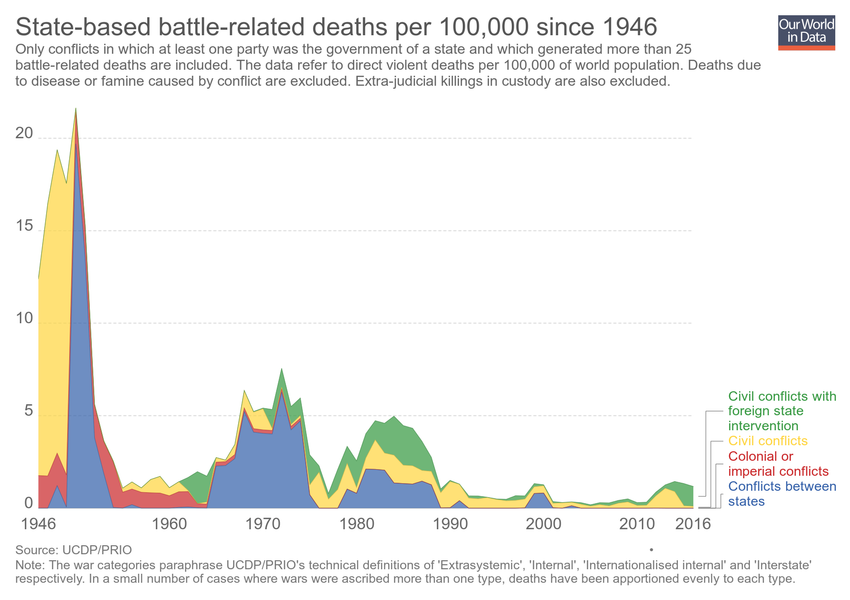
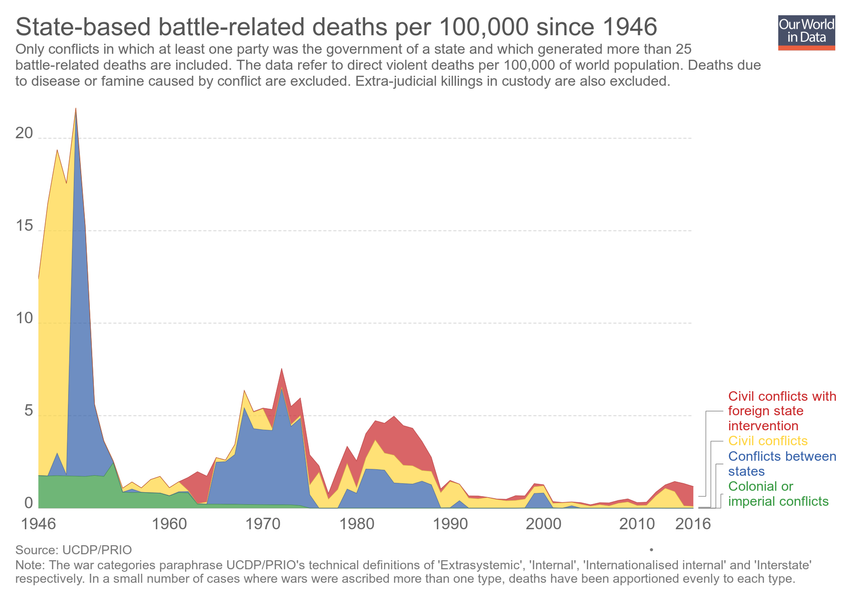
Updating chart state-based-battle-related-deaths-per-100000-since-1946

diff --git a/grapher/state-based-battle-related-deaths-per-100000-since-1946.html b/grapher/state-based-battle-related-deaths-per-100000-since-1946.html
@@ -1,4 +1,4 @@
-<!doctype html><html><head><meta name="viewport" content="width=device-width, initial-scale=1" /><title>State-based battle-related deaths per 100,000 since 1946 - Our World in Data</title><meta name="description" content="Only conflicts in which at least one party was the government of a state and which generated more than 25 battle-related deaths are included. The data refer to direct violent deaths per 100,000 of world population. Deaths due to disease or famine caused by conflict are excluded. Extra-judicial killings in custody are also excluded." /><link rel="canonical" href="https://ourworldindata.org/grapher/state-based-battle-related-deaths-per-100000-since-1946" /><meta property="fb:app_id" content="1149943818390250" /><meta property="og:url" content="https://ourworldindata.org/grapher/state-based-battle-related-deaths-per-100000-since-1946" /><meta property="og:title" content="State-based battle-related deaths per 100,000 since 1946" /><meta property="og:description" content="Only conflicts in which at least one party was the government of a state and which generated more than 25 battle-related deaths are included. The data refer to direct violent deaths per 100,000 of world population. Deaths due to disease or famine caused by conflict are excluded. Extra-judicial killings in custody are also excluded." /><meta property="og:image" content="https://ourworldindata.org/grapher/exports/state-based-battle-related-deaths-per-100000-since-1946.png?v=3" /><meta property="og:image:width" content="850" /><meta property="og:image:height" content="600" /><meta property="og:site_name" content="Our World in Data" /><meta name="twitter:card" content="summary_large_image" /><meta name="twitter:site" content="@OurWorldInData" /><meta name="twitter:creator" content="@OurWorldInData" /><meta name="twitter:title" content="State-based battle-related deaths per 100,000 since 1946" /><meta name="twitter:description" content="Only conflicts in which at least one party was the government of a state and which generated more than 25 battle-related deaths are included. The data refer to direct violent deaths per 100,000 of world population. Deaths due to disease or famine caused by conflict are excluded. Extra-judicial killings in custody are also excluded." /><meta name="twitter:image" content="https://ourworldindata.org/grapher/exports/state-based-battle-related-deaths-per-100000-since-1946.png?v=3" /><style>
+<!doctype html><html><head><meta name="viewport" content="width=device-width, initial-scale=1" /><title>State-based battle-related deaths per 100,000 since 1946 - Our World in Data</title><meta name="description" content="Only conflicts in which at least one party was the government of a state and which generated more than 25 battle-related deaths are included. The data refer to direct violent deaths per 100,000 of world population. Deaths due to disease or famine caused by conflict are excluded. Extra-judicial killings in custody are also excluded." /><link rel="canonical" href="https://ourworldindata.org/grapher/state-based-battle-related-deaths-per-100000-since-1946" /><meta property="fb:app_id" content="1149943818390250" /><meta property="og:url" content="https://ourworldindata.org/grapher/state-based-battle-related-deaths-per-100000-since-1946" /><meta property="og:title" content="State-based battle-related deaths per 100,000 since 1946" /><meta property="og:description" content="Only conflicts in which at least one party was the government of a state and which generated more than 25 battle-related deaths are included. The data refer to direct violent deaths per 100,000 of world population. Deaths due to disease or famine caused by conflict are excluded. Extra-judicial killings in custody are also excluded." /><meta property="og:image" content="https://ourworldindata.org/grapher/exports/state-based-battle-related-deaths-per-100000-since-1946.png?v=4" /><meta property="og:image:width" content="850" /><meta property="og:image:height" content="600" /><meta property="og:site_name" content="Our World in Data" /><meta name="twitter:card" content="summary_large_image" /><meta name="twitter:site" content="@OurWorldInData" /><meta name="twitter:creator" content="@OurWorldInData" /><meta name="twitter:title" content="State-based battle-related deaths per 100,000 since 1946" /><meta name="twitter:description" content="Only conflicts in which at least one party was the government of a state and which generated more than 25 battle-related deaths are included. The data refer to direct violent deaths per 100,000 of world population. Deaths due to disease or famine caused by conflict are excluded. Extra-judicial killings in custody are also excluded." /><meta name="twitter:image" content="https://ourworldindata.org/grapher/exports/state-based-battle-related-deaths-per-100000-since-1946.png?v=4" /><style>
         html, body {
             height: 100%;
             margin: 0;
@@ -20,8 +20,8 @@
         }
     </style><noscript><style>
                     figure { display: none !important; }
-                </style></noscript><link rel="stylesheet" href="https://ourworldindata.org/grapher/assets/commons.bundle.62f8703dfc964fd3975c.css" /><link rel="preload" href="/grapher/data/variables/97372.json?v=3" as="fetch" crossorigin /></head><body class="singleChart"><figure data-grapher-src="/grapher/state-based-battle-related-deaths-per-100000-since-1946"></figure><noscript id="fallback"><img src="/grapher/exports/state-based-battle-related-deaths-per-100000-since-1946.svg" /><p>Interactive visualization requires JavaScript</p></noscript><script src="https://cdn.polyfill.io/v2/polyfill.min.js?features=es6,fetch"></script><script src="https://ourworldindata.org/grapher/assets/commons.bundle.62f8703dfc964fd3975c.js"></script><script src="https://ourworldindata.org/grapher/assets/charts.bundle.dcf65b68eddaba4c6a58.js"></script><script>
-        var jsonConfig = {"id":2578,"map":{"projection":"World","colorSchemeLabels":[],"colorSchemeValues":[],"colorSchemeMinValue":0,"customNumericColors":[],"customCategoryColors":{},"customCategoryLabels":{},"customHiddenCategories":{}},"tab":"chart","note":"The war categories paraphrase UCDP/PRIO's technical definitions of 'Extrasystemic', 'Internal', 'Internationalised internal' and 'Interstate' respectively. In a small number of cases where wars were ascribed more than one type, deaths have been apportioned evenly to each type.","slug":"state-based-battle-related-deaths-per-100000-since-1946","type":"StackedArea","title":"State-based battle-related deaths per 100,000 since 1946","xAxis":{"scaleType":"linear"},"yAxis":{"min":0,"scaleType":"linear"},"version":3,"subtitle":"Only conflicts in which at least one party was the government of a state and which generated more than 25 battle-related deaths are included. The data refer to direct violent deaths per 100,000 of world population. Deaths due to disease or famine caused by conflict are excluded. Extra-judicial killings in custody are also excluded.","hasMapTab":false,"stackMode":"absolute","dimensions":[{"display":{},"property":"y","variableId":97372}],"hasChartTab":true,"isPublished":true,"selectedData":[{"color":"#ca2628","index":0,"entityId":37491},{"color":"#ffd53e","index":0,"entityId":37492},{"color":"#3360a9","index":0,"entityId":37493},{"color":"#34983f","index":0,"entityId":37494}],"addCountryMode":"disabled"};
+                </style></noscript><link rel="stylesheet" href="https://ourworldindata.org/grapher/assets/commons.bundle.62f8703dfc964fd3975c.css" /><link rel="preload" href="/grapher/data/variables/97372.json?v=4" as="fetch" crossorigin /></head><body class="singleChart"><figure data-grapher-src="/grapher/state-based-battle-related-deaths-per-100000-since-1946"></figure><noscript id="fallback"><img src="/grapher/exports/state-based-battle-related-deaths-per-100000-since-1946.svg" /><p>Interactive visualization requires JavaScript</p></noscript><script src="https://cdn.polyfill.io/v2/polyfill.min.js?features=es6,fetch"></script><script src="https://ourworldindata.org/grapher/assets/commons.bundle.62f8703dfc964fd3975c.js"></script><script src="https://ourworldindata.org/grapher/assets/charts.bundle.dcf65b68eddaba4c6a58.js"></script><script>
+        var jsonConfig = {"id":2578,"map":{"projection":"World","colorSchemeLabels":[],"colorSchemeValues":[],"colorSchemeMinValue":0,"customNumericColors":[],"customCategoryColors":{},"customCategoryLabels":{},"customHiddenCategories":{}},"tab":"chart","note":"The war categories paraphrase UCDP/PRIO's technical definitions of 'Extrasystemic', 'Internal', 'Internationalised internal' and 'Interstate' respectively. In a small number of cases where wars were ascribed more than one type, deaths have been apportioned evenly to each type.","slug":"state-based-battle-related-deaths-per-100000-since-1946","type":"StackedArea","title":"State-based battle-related deaths per 100,000 since 1946","xAxis":{"scaleType":"linear"},"yAxis":{"min":0,"scaleType":"linear"},"version":4,"subtitle":"Only conflicts in which at least one party was the government of a state and which generated more than 25 battle-related deaths are included. The data refer to direct violent deaths per 100,000 of world population. Deaths due to disease or famine caused by conflict are excluded. Extra-judicial killings in custody are also excluded.","hasMapTab":false,"stackMode":"absolute","dimensions":[{"display":{},"property":"y","variableId":97372}],"hasChartTab":true,"isPublished":true,"selectedData":[{"color":"#ca2628","index":0,"entityId":37491},{"color":"#ffd53e","index":0,"entityId":37492},{"color":"#3360a9","index":0,"entityId":37493},{"color":"#34983f","index":0,"entityId":37494}],"addCountryMode":"disabled"};
         var figure = document.getElementsByTagName("figure")[0];
         try {
             window.App = {};
